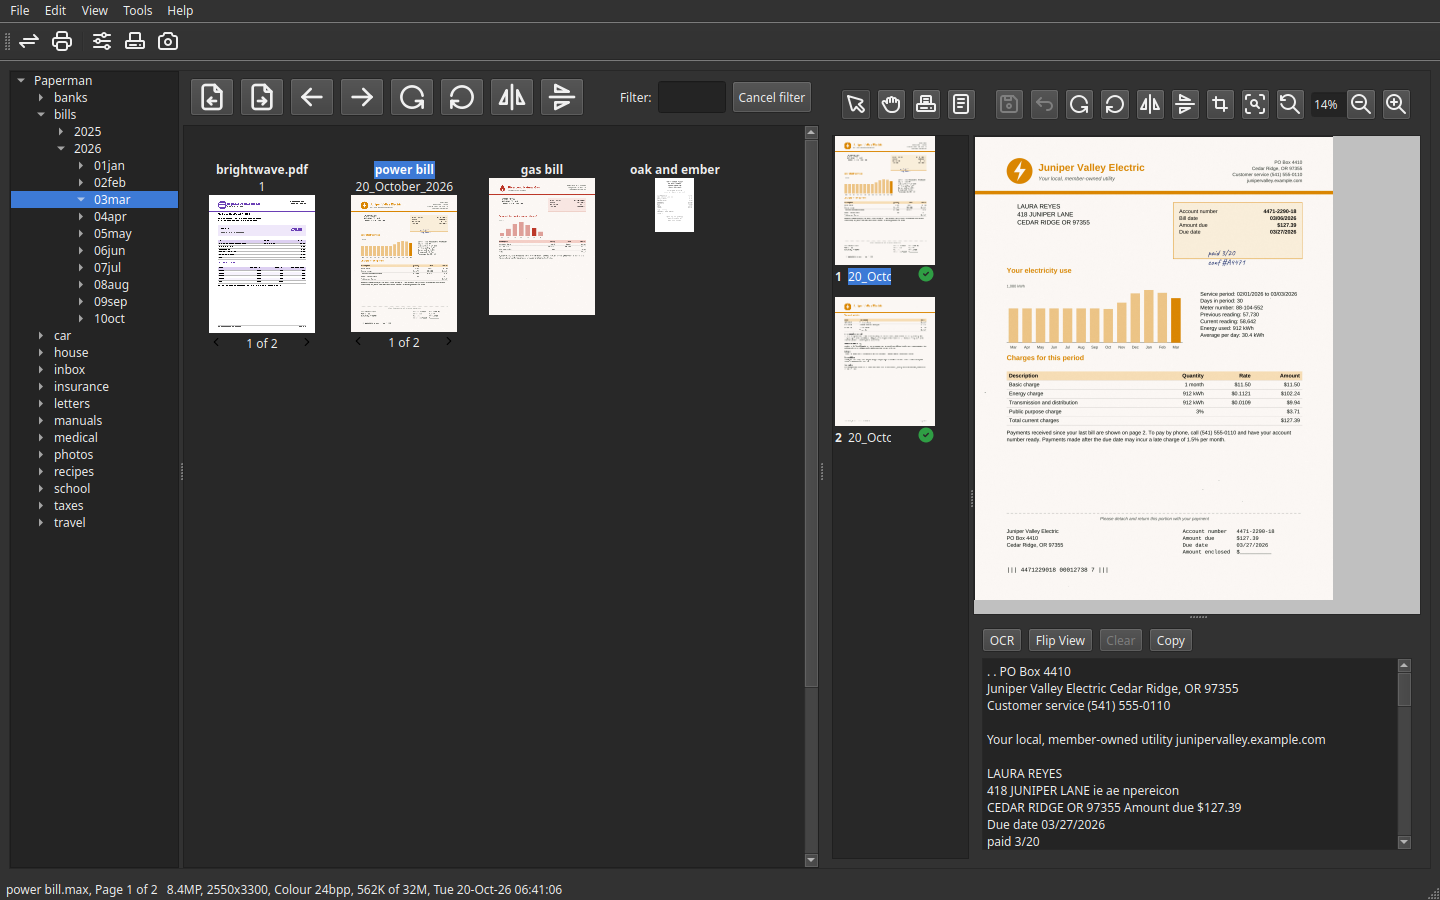
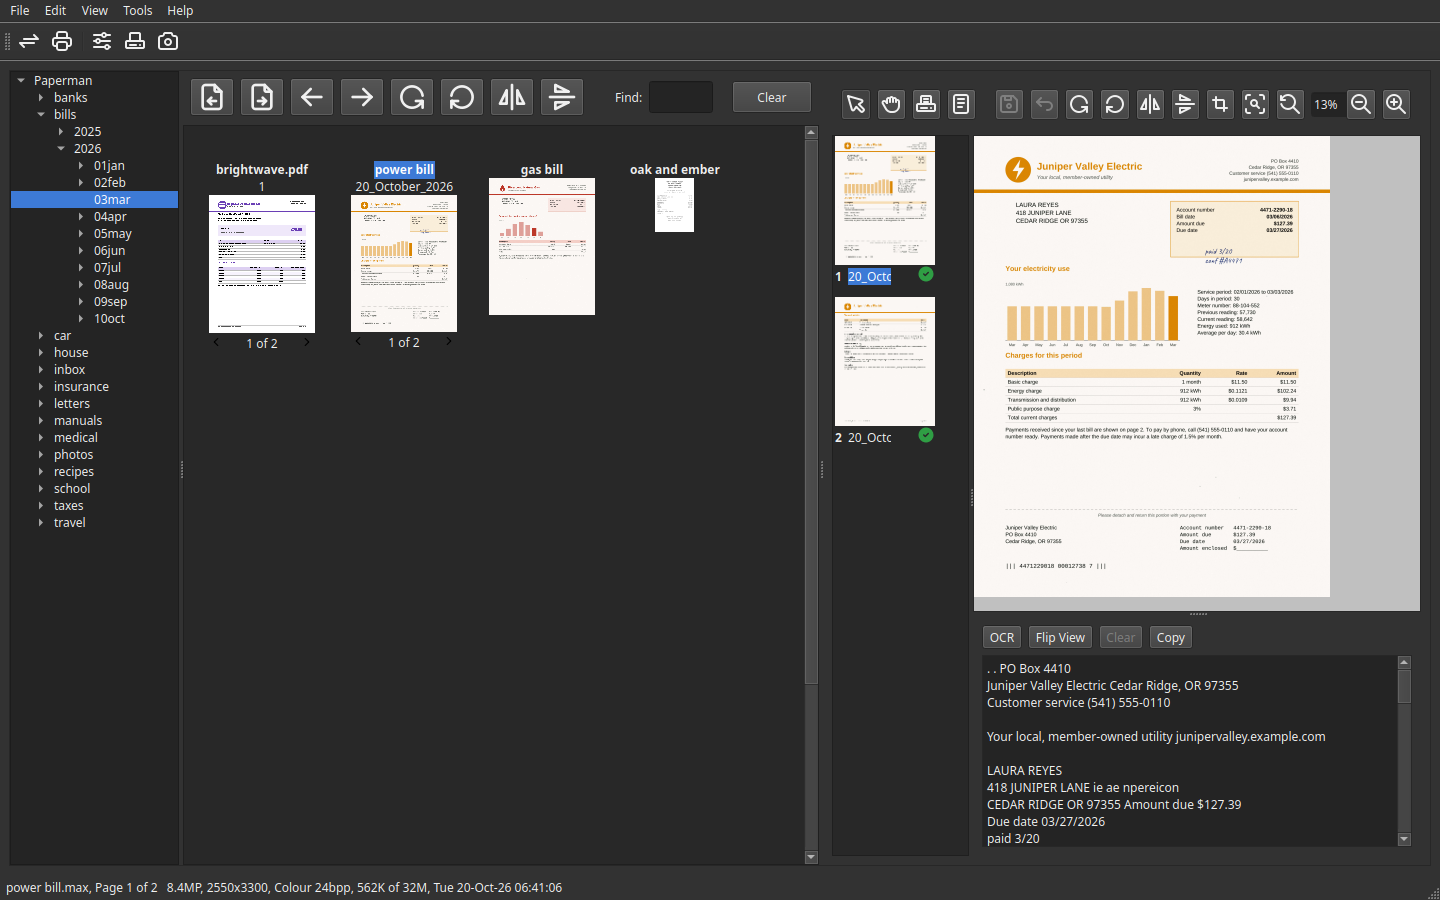
doc: Describe finding stacks in a folder
The guide describes a filter which hides the stacks whose names do
not match, and its pictures show a Filter box and a Cancel filter
button. The box finds stacks now, and is called Find, with a Clear
button beside it.

Describe finding instead: what is marked and what is faint, the count,
the keys which go from one stack found to the next and select them
all, and how to stop. List the keys with the other shortcuts, and
point to the Find box for a stack which seems to be missing.

Take the pictures again which show the stack toolbar, with the one of
the filter becoming one of a stack being found, and name the box Find
in the labelled picture of the window.

Co-developed-by: Claude Fable 5.2 <noreply@anthropic.com>
Claude-Session: https://claude.ai/code/session_01BxfLL7T8McSpFMMxYekitE

diff --git a/test/test_screenshots.cpp b/test/test_screenshots.cpp
@@ -666,7 +666,7 @@ void TestScreenshots::testMoveToFolder ()
    QVERIFY (seen);
    }
 
-void TestScreenshots::testFilter ()
+void TestScreenshots::testFind ()
    {
    Mainwindow me;
 
@@ -674,13 +674,15 @@ void TestScreenshots::testFilter ()
    if (QTest::currentTestFailed ())
       return;
 
-   QLineEdit *filter =
+   QLineEdit *find =
       me.getDesktop ()->_toolbar->findChild<QLineEdit *> ();
 
-   QVERIFY (filter);
-   QTest::keyClicks (filter, "bill");
+   // the second of the stacks found, to show that the count follows
+   QVERIFY (find);
+   QTest::keyClicks (find, "bill");
+   QTest::keyClick (find, Qt::Key_Return);
    settle ();
-   save (&me, "filter");
+   save (&me, "find");
    }
 
 void TestScreenshots::testRemovePage ()

diff --git a/scripts/annotate_screenshot.py b/scripts/annotate_screenshot.py
@@ -44,7 +44,7 @@ LABELS = {
         ('menu', 'Menu bar', 'top', (0.1, 0.5), False),
         ('toolbar', 'Main toolbar', 'top', (0.6, 0.5), True),
         ('stack-tools', 'Stack toolbar', 'top', (0.4, 0.5), False),
-        ('filter', 'Filter', 'top', (0.5, 0.5), False),
+        ('filter', 'Find', 'top', (0.5, 0.5), False),
         ('page-tools', 'Page toolbar', 'top', (0.5, 0.5), False),
         ('folders', 'Folder pane', 'in', (0.5, 0.75), True),
         ('stack', 'Stack', 'in', (0.5, 1.0), True, (0.281, 0.48)),

diff --git a/test/test_screenshots.h b/test/test_screenshots.h
@@ -68,8 +68,8 @@ private slots:
    //! Moving a stack to another folder, chosen by part of its name
    void testMoveToFolder();
 
-   //! The stacks of a folder, filtered by name
-   void testFilter();
+   //! Finding stacks in a folder by part of their names
+   void testFind();
 
    //! A page marked to be removed, beside one kept
    void testRemovePage();

diff --git a/doc/finding.rst b/doc/finding.rst
@@ -3,15 +3,32 @@ Finding
 
 Paperman finds stacks by their names and by the words on their pages.
 
-The filter
-----------
+Finding a stack in its folder
+-----------------------------
 
 To pick a stack out of a busy folder, type part of its name in the
-**Filter** box above the stack pane. Only the stacks whose names have
-those letters in them are shown; **Cancel filter** shows them all again.
+**Find** box above the stack pane. The stacks whose names have those
+letters in them are marked, and the rest are shown faintly. Every stack
+stays where it is, so a stack found is still in the same place when you
+have finished.
 
-.. image:: images/filter.png
-   :alt: A month's bills filtered by typing bill, showing the power, gas and water bills
+.. image:: images/find.png
+   :alt: A month's bills with bill typed in the Find box: the power, gas and water bills are marked, the gas bill is selected and the other stacks are faint
+
+The first stack found is selected, and shown in the preview pane. The
+count beside the box says which one it is and how many there are, such as
+*2 of 3*, or *None* if no name has the letters in.
+
+- **Enter** (or **F3**, or the down arrow) goes to the next stack found,
+  and **Shift+Enter** (**Shift+F3**, or the up arrow) to the one before.
+  After the last comes the first again.
+- **Ctrl+Enter** selects every stack found, to move, stack or delete them
+  together.
+- **Esc**, or the **Clear** button, stops finding: the stacks are all
+  shown as usual, the one found is still selected and in view, and the
+  keyboard works on it.
+
+Going to another folder stops the finding too.
 
 Searching
 ---------

diff --git a/doc/desktop.rst b/doc/desktop.rst
@@ -23,8 +23,8 @@ Folder pane
 Stack toolbar
    Above the stacks: move between stacks, turn and flip their pages.
 
-Filter
-   In the stack toolbar: show only the stacks whose names match.
+Find
+   In the stack toolbar: pick out the stacks whose names match.
 
 Stack pane
    In the middle: the stacks in the folder chosen.
@@ -137,9 +137,10 @@ Stack toolbar
      - Flip every page of them from left to right
    * - |stack-vflip|
      - Flip every page of them upside down
-   * - **Filter**
-     - Type a few letters to show only the stacks whose names have them
-       in, and **Cancel filter** to show them all again
+   * - **Find**
+     - Type a few letters to pick out the stacks whose names have them
+       in, with the rest shown faintly; **Enter** goes to the next one
+       found and **Clear** stops (see :doc:`finding`)
 
 Stack pane
 ----------

diff --git a/doc/testing.rst b/doc/testing.rst
@@ -6,7 +6,7 @@ directory model, search server, and OCR indexing.
 
 Two suites drive the application through real UI events rather than calling
 operations directly: ``TestDesktopUi`` covers desktop interactions (clicking
-and double-clicking stacks, toolbar navigation, filtering, folder search and
+and double-clicking stacks, toolbar navigation, finding, folder search and
 the directory tree) and ``TestPagewidget`` covers the page view (thumbnail
 selection, zoom and display rotation). These run the ``Mainwindow`` with the
 offscreen platform plugin and use ``QTest`` mouse and keyboard events, so

diff --git a/doc/keys.rst b/doc/keys.rst
@@ -97,6 +97,23 @@ Processing
    * - **Ctrl+R**
      - Put the pages of each stack in the opposite order
 
+Finding
+~~~~~~~
+
+These work in the **Find** box above the stack pane (see :doc:`finding`).
+
+.. list-table::
+   :widths: 30 70
+
+   * - **Enter**, **F3**, **Down**
+     - Go to the next stack found
+   * - **Shift+Enter**, **Shift+F3**, **Up**
+     - Go to the one before
+   * - **Ctrl+Enter**
+     - Select every stack found
+   * - **Esc**
+     - Stop finding, leaving the stack found selected
+
 Duplicating
 ~~~~~~~~~~~
 

diff --git a/doc/troubleshooting.rst b/doc/troubleshooting.rst
@@ -45,8 +45,8 @@ as a ``.max`` stack with **Duplicate... > as Max** (Ctrl+Shift+D), then
 read that.
 
 **A stack is missing.** It may be in another folder: search for its
-name from the top of the repository (see :doc:`finding`). Also check
-that the **Filter** box above the stack pane is empty.
+name from the top of the repository (see :doc:`finding`). In its own
+folder, type part of its name in the **Find** box above the stack pane.
 
 Filing
 ------
